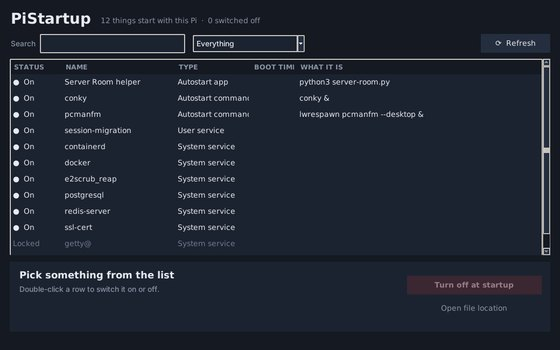
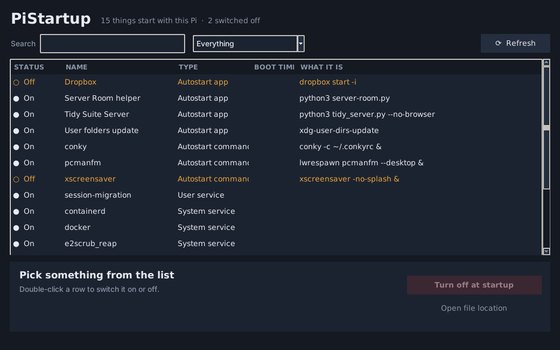
Add up-to-date Server Suite screenshots
Claude-Session: https://claude.ai/code/session_013eymtWDF2QLdjic3wrz77V

diff --git a/apps/pistartup/README.md b/apps/pistartup/README.md
@@ -1,0 +1,20 @@
+# PiStartup
+
+See everything that starts with your Raspberry Pi and switch it off or back on.
+
+![PiStartup](screenshot.png)
+
+- **Desktop autostart apps**, plus your labwc / LXDE / Wayfire autostart lines
+- **@reboot jobs** in your crontab
+- **System and user services**, with how long each took at the last boot (filter: *Slowest at boot*)
+- **/etc/rc.local** commands (shown, read-only)
+
+Double-click a row (or use the button) to turn it off or on. Core desktop and system pieces are locked, and risky ones (SSH, Wi-Fi, VNC, sound...) ask first. Before it first edits one of your autostart files it saves a `.pistartup.bak` copy. Desktop changes apply at your next login, services at the next boot, and everything can be switched back on from the *Switched off* filter.
+
+## Install
+```bash
+bash install.sh      # adds it to Menu > Preferences and the Desktop
+```
+Run once without installing: `python3 pistartup.py`. Remove: `bash uninstall.sh`.
+
+Part of the [Pi Server Suite](https://github.com/hardwaremack-prog/pi-server-suite).

diff --git a/apps/pironman-pilot/README.md b/apps/pironman-pilot/README.md
@@ -1,5 +1,7 @@
 # Pironman Pilot
 
+![Pironman Pilot](screenshot.png)
+
 A control center for the **SunFounder Pironman 5 MAX** case on a **Raspberry Pi 5**.
 
 | Tab | What you can do |
@@ -51,3 +53,10 @@ bash uninstall.sh
 ```
 
 Removes the app and takes Pilot's overclock / fan-curve lines out of `config.txt` (backup kept). Reboot to be back on stock clocks.
+
+## Screenshots
+| | |
+|---|---|
+| ![Fans](screenshots/fans.png) | ![Side-fan speed curve](screenshots/side-fans.png) |
+| ![Lights](screenshots/lights.png) | ![OLED pages](screenshots/oled.png) |
+| ![Overclock](screenshots/overclock.png) | |

diff --git a/apps/vnc-turbo/README.md b/apps/vnc-turbo/README.md
@@ -1,5 +1,7 @@
 # ⚡ VNC Turbo
 
+![VNC Turbo](screenshot.png)
+
 Finds what's making VNC slow on a Raspberry Pi 5 and switches it off — with one-click undo.
 
 ## Install
